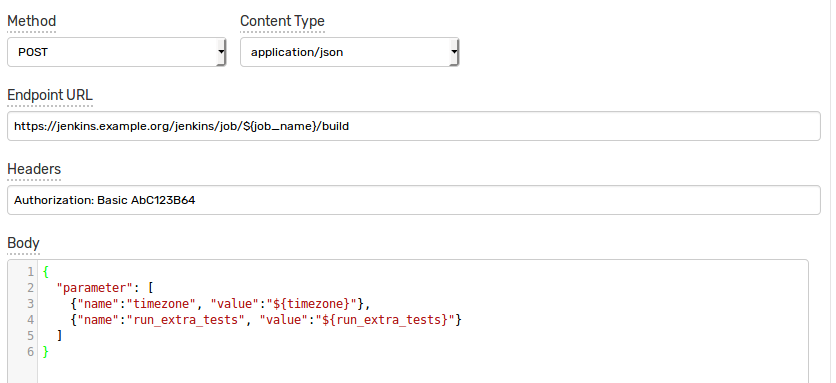
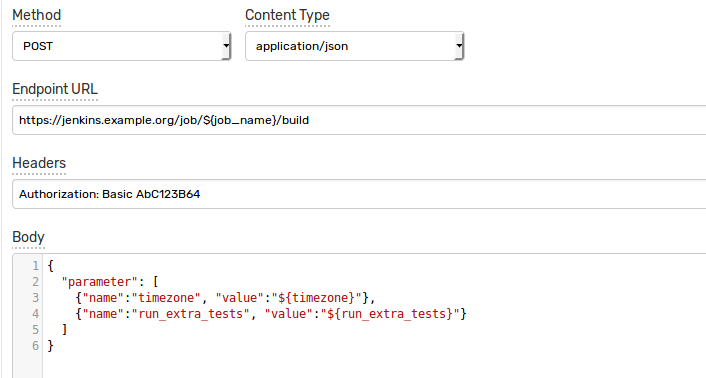
fixed jenkins url

diff --git a/rule-engine/notifications/custom-jenkins.md b/rule-engine/notifications/custom-jenkins.md
@@ -20,7 +20,7 @@ Enter a name and specify the following parameters:
 | :--- | :--- |
 | Method | `POST`  |
 | Content Type | `application/json` |
-| Endpoint URL | `https://jenkins.example.org/jenkins/job/${job_name}/build` |
+| Endpoint URL | `https://jenkins.example.org/job/${job_name}/build` |
 | Headers | `Authorization: Basic AbC123B64` |
 
 The `${job_name}` should remain in the URL as placeholders which you will be able to specify in the rule editor. This would allow re-using the same notification to trigger different jobs.
@@ -80,7 +80,7 @@ Note that these three parameters are visible in the rule editor because their pl
 
 When the notification is executed, all placeholders in the request URL and the payload will be resolved as follows:
 
-`https://jenkins.example.org/jenkins/job/atsd-api-test/build`
+`https://jenkins.example.org/job/atsd-api-test/build`
 
 ```json
 {
